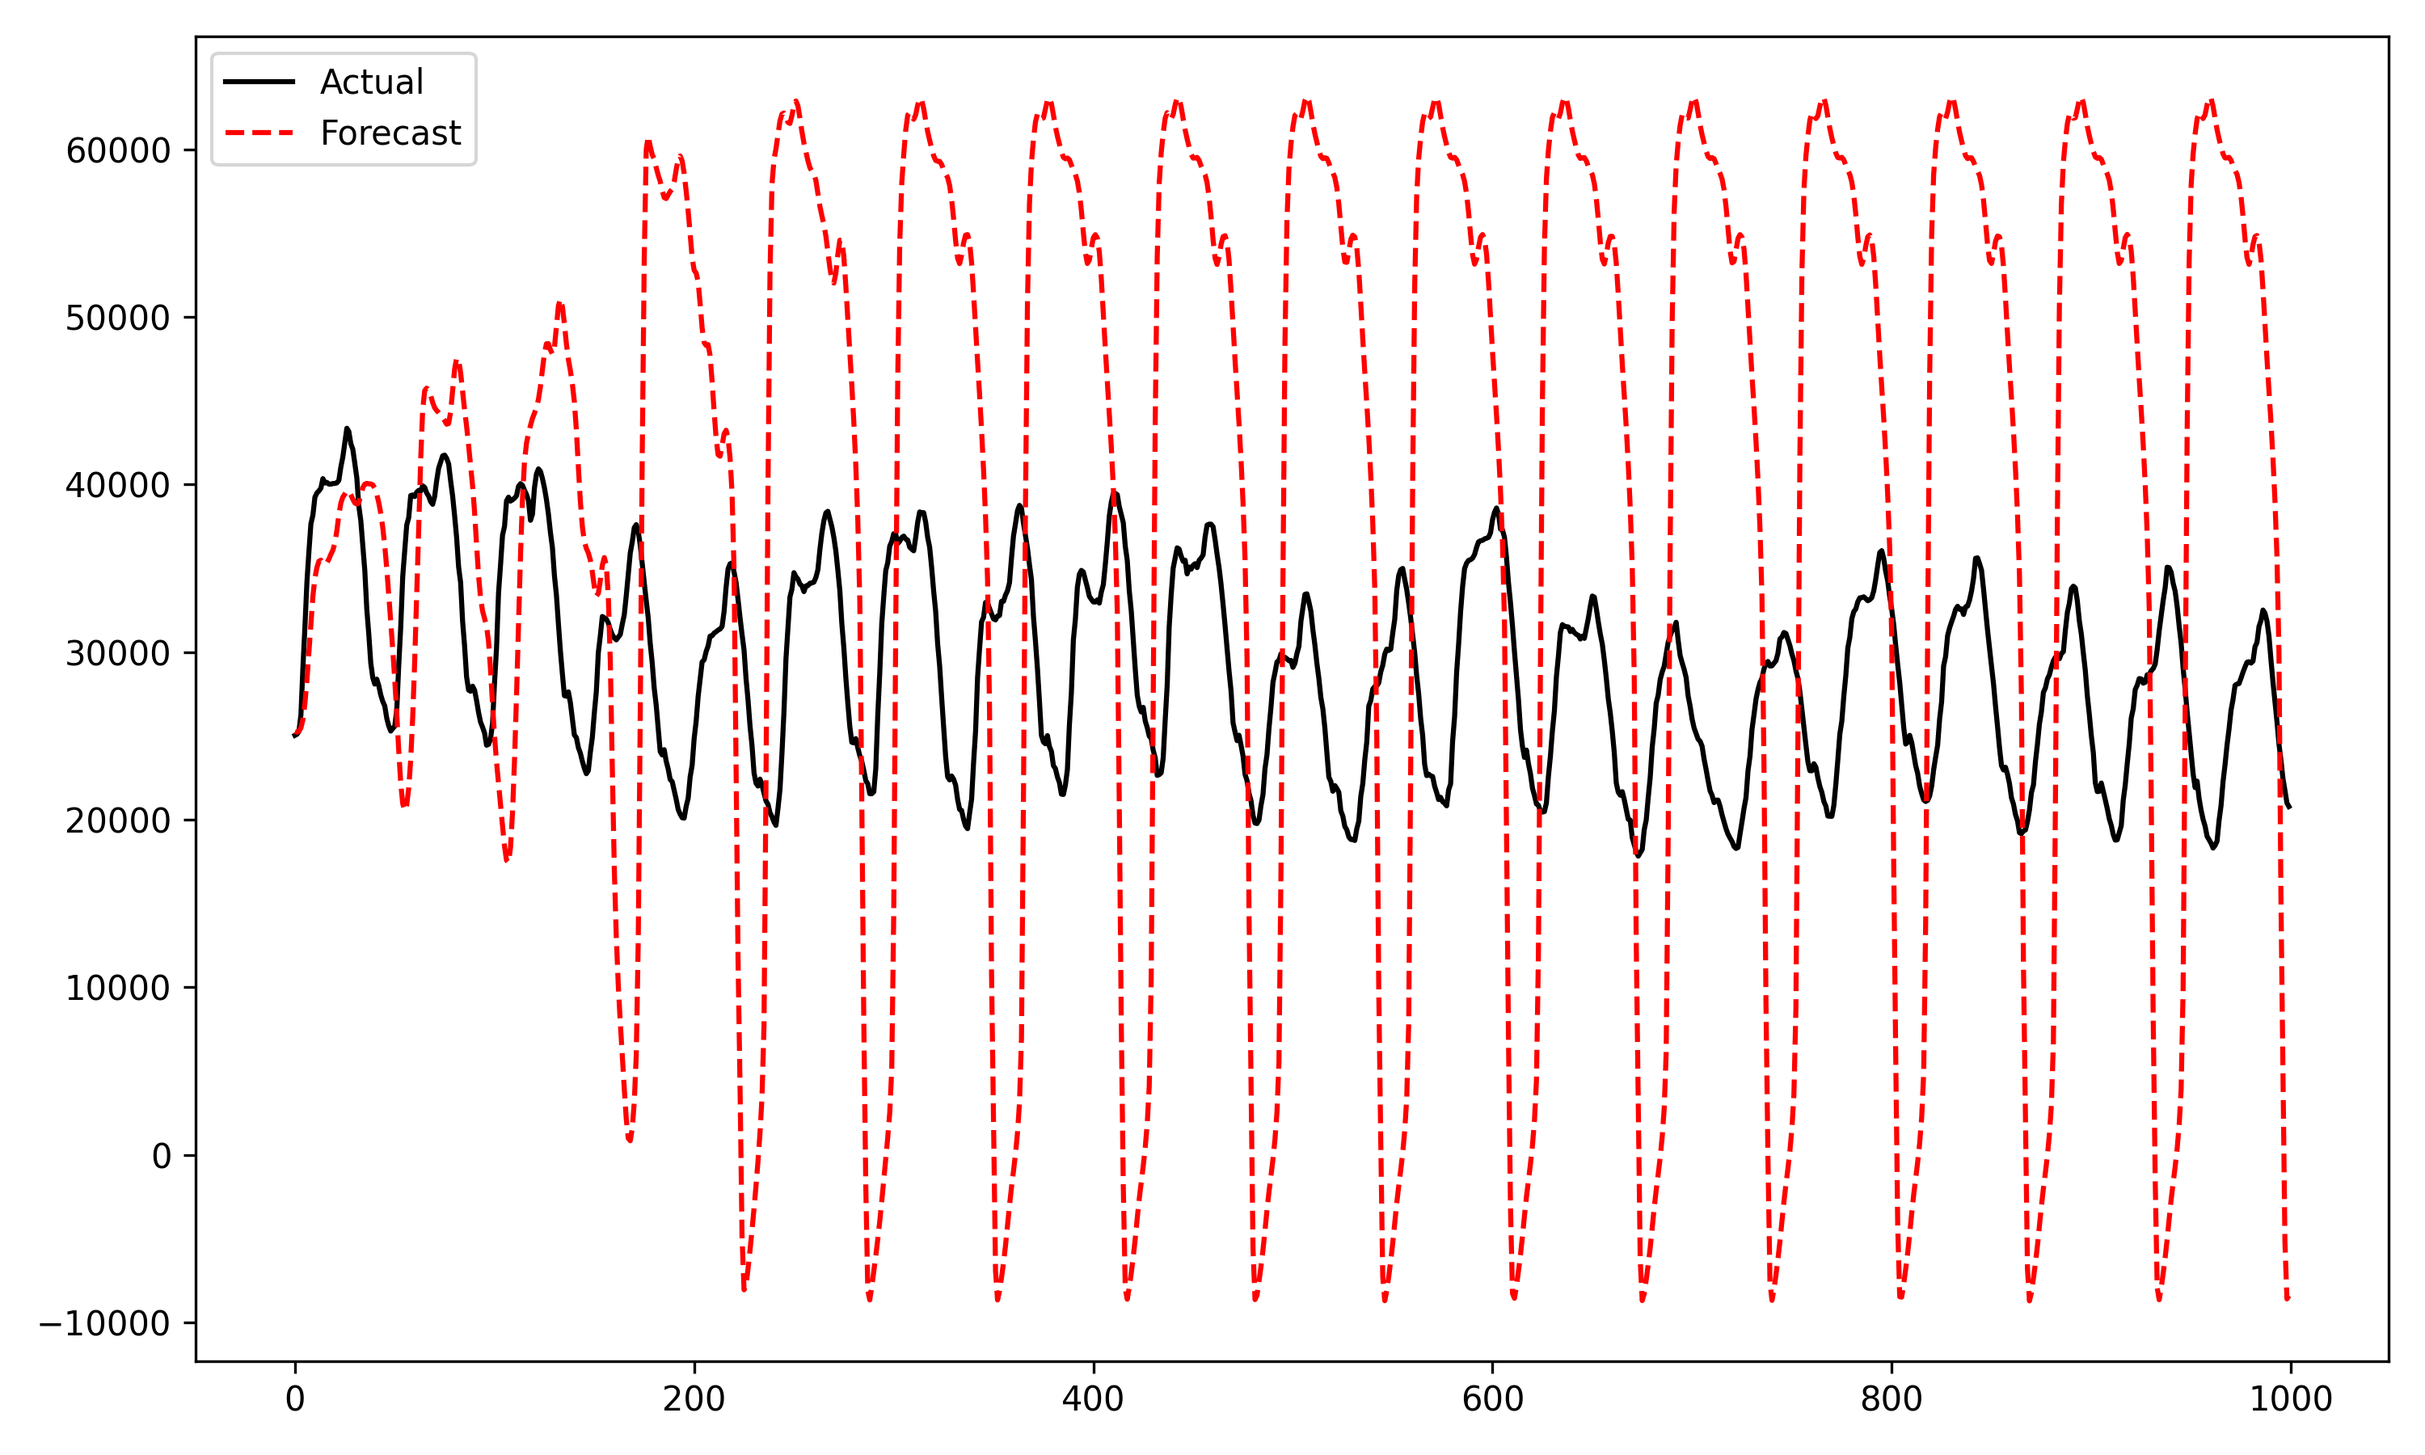
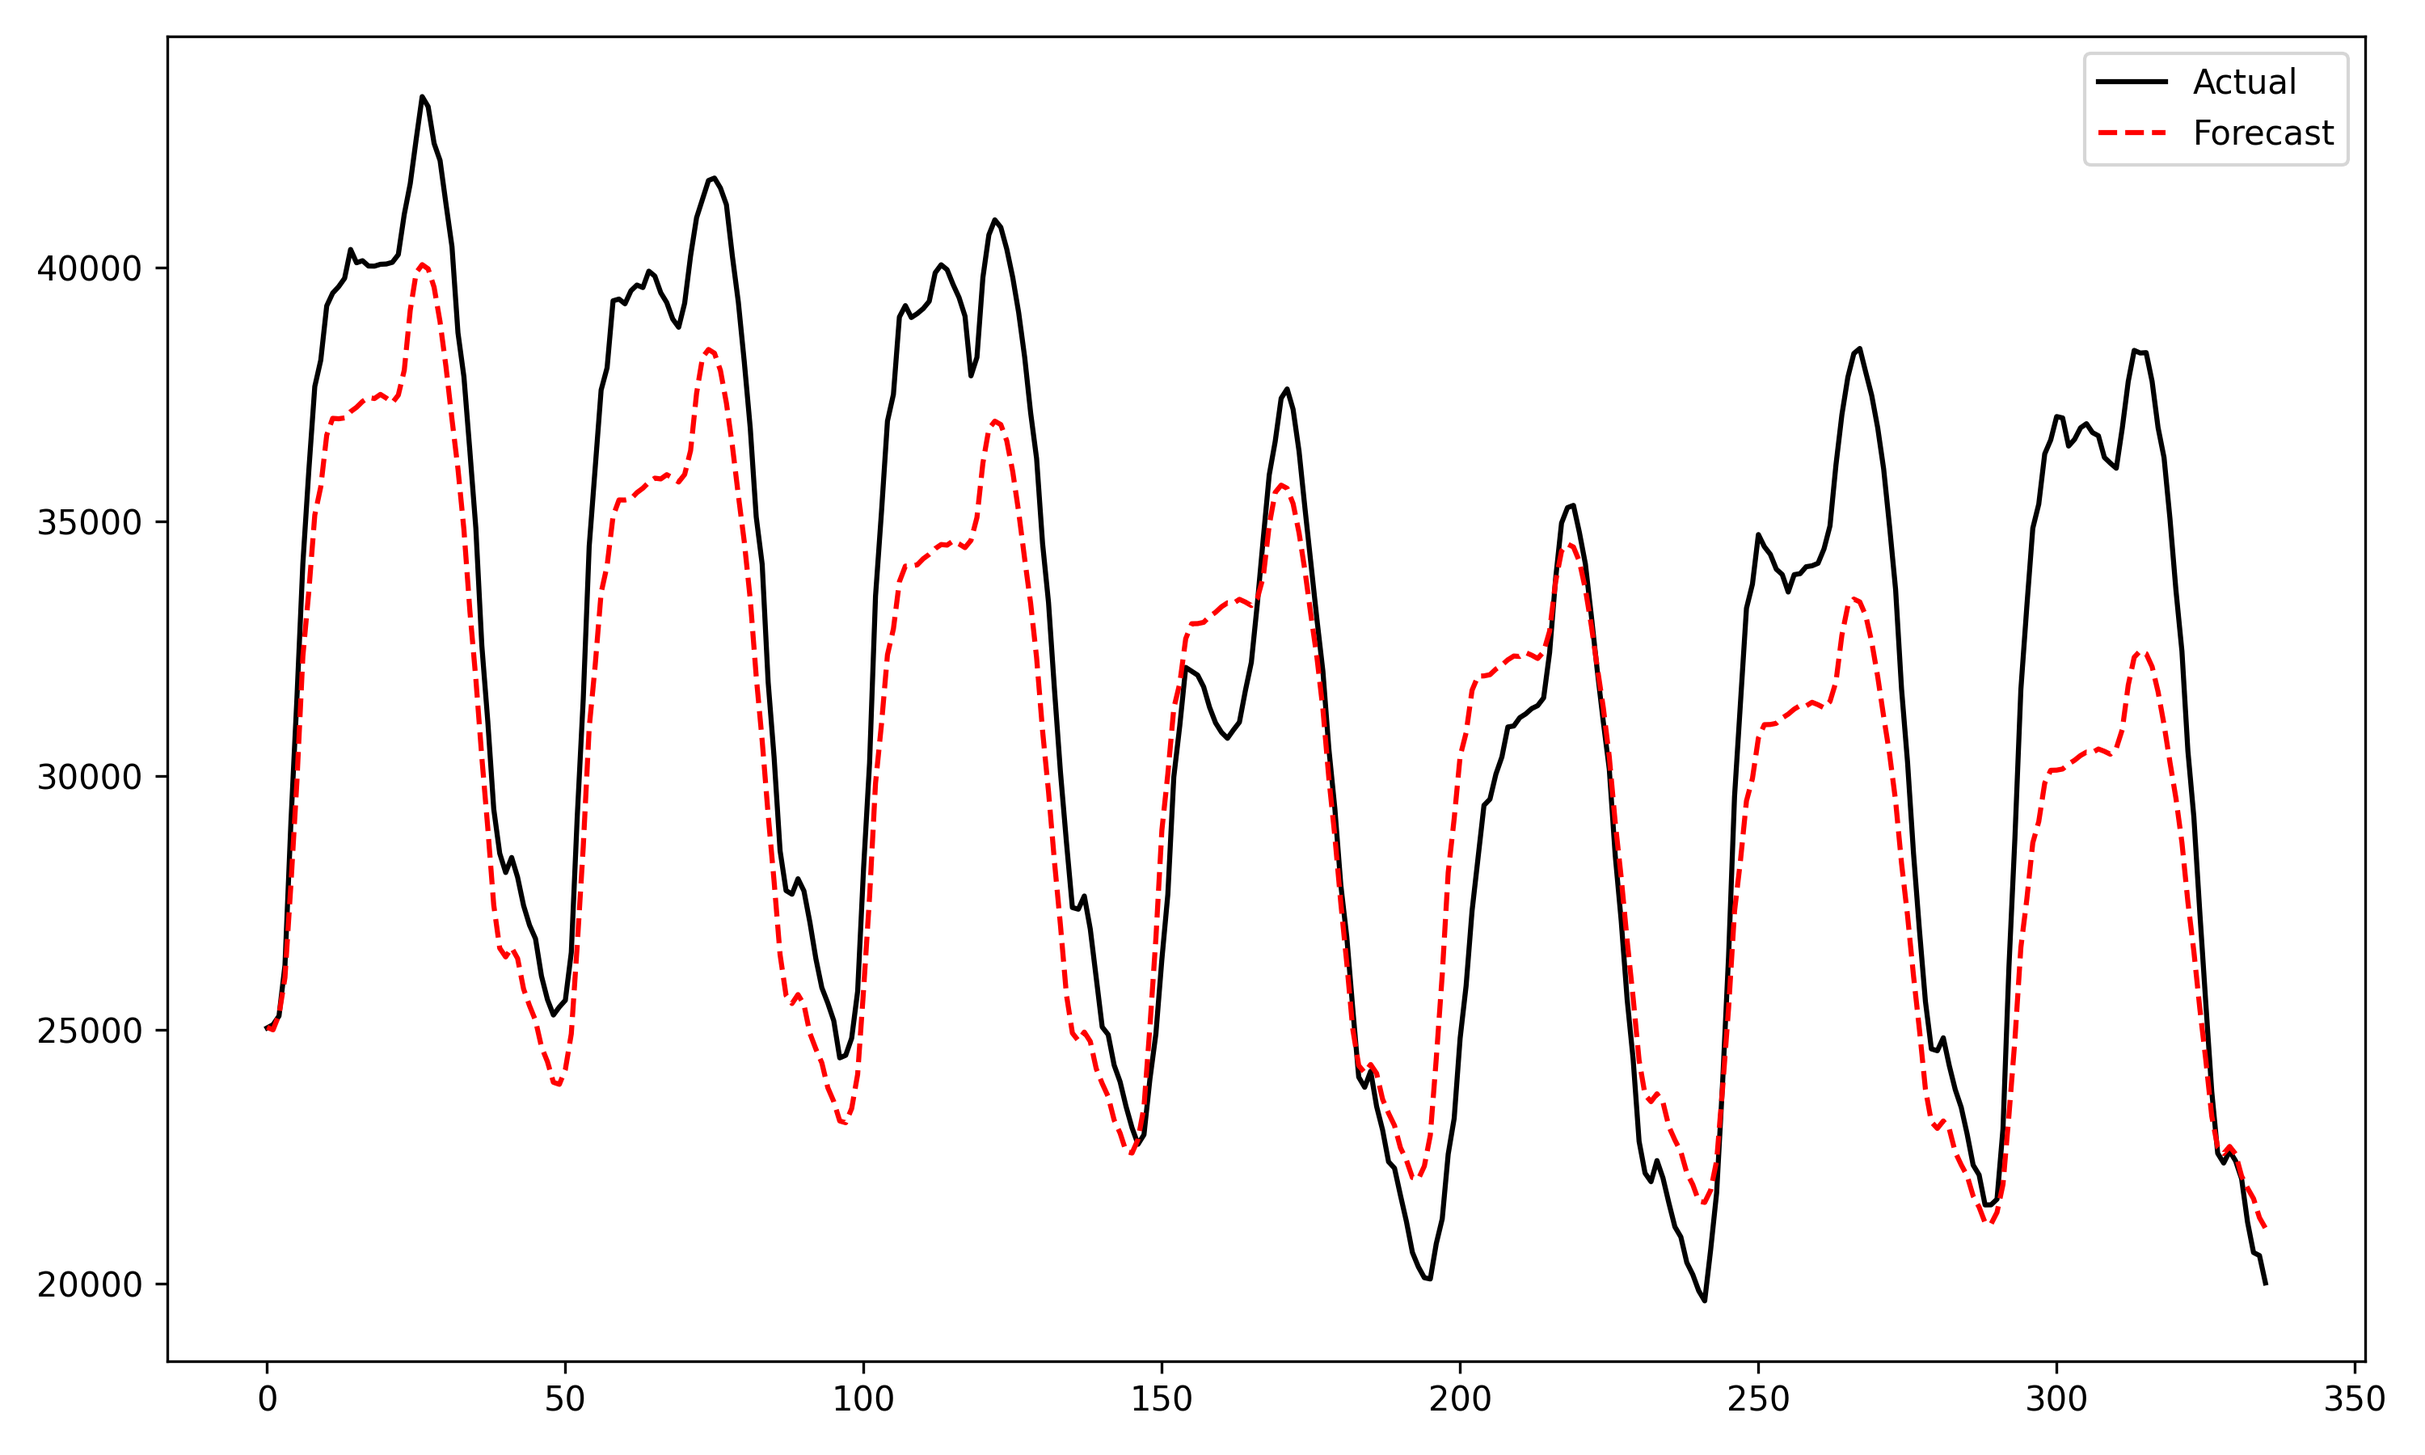
Changes batch first

diff --git a/src/qq_forecasting/transformer/transformer_model.py b/src/qq_forecasting/transformer/transformer_model.py
@@ -13,11 +13,11 @@ class PositionalEncoding(nn.Module):
         div_term = torch.exp(torch.arange(0, d_model, 2).float() * (-math.log(10000.0) / d_model))
         pe[:, 0::2] = torch.sin(position * div_term)
         pe[:, 1::2] = torch.cos(position * div_term)
-        pe = pe.unsqueeze(0).transpose(0, 1)
+        pe = pe.unsqueeze(0)  # (1, max_len, d_model)
         self.register_buffer("pe", pe)
 
     def forward(self, x):
-        return self.pe[:x.size(0), :]
+        return self.pe[:, :x.size(1), :]  # assuming x is (batch, seq_len, d_model)
 
 
 class TransformerEncoder(nn.Module):
@@ -26,7 +26,9 @@ class TransformerEncoder(nn.Module):
         self.embedding_layer = nn.Linear(input_dim, feature_size)
         self.src_mask = None
         self.pos_encoder = PositionalEncoding(feature_size)
-        self.encoder_layer = nn.TransformerEncoderLayer(d_model=feature_size, nhead=10, dropout=dropout)
+        self.encoder_layer = nn.TransformerEncoderLayer(
+            d_model=feature_size, nhead=10, dropout=dropout, batch_first=True
+        )
         self.transformer_encoder = nn.TransformerEncoder(self.encoder_layer, num_layers=num_layers)
         self.decoder = nn.Linear(feature_size, 1)
         self._init_weights()
@@ -37,13 +39,10 @@ class TransformerEncoder(nn.Module):
         self.decoder.weight.data.uniform_(-initrange, initrange)
 
     def forward(self, x):
-        # x: (seq_len, batch_size, input_dim)
-        x = self.embedding_layer(x)
-        if self.src_mask is None or self.src_mask.size(0) != len(x):
-            self.src_mask = self._generate_square_subsequent_mask(len(x)).to(x.device)
+        x = self.embedding_layer(x)  # (batch, seq_len, feature_size)
         x = x + self.pos_encoder(x)
-        output = self.transformer_encoder(x, self.src_mask)
-        return self.decoder(output[-1, :, :])  # only take last time step
+        output = self.transformer_encoder(x, self.src_mask)  # (batch, seq_len, d_model)
+        return self.decoder(output[:, -1, :])  # last time step per batch
 
     def _generate_square_subsequent_mask(self, sz):
         mask = (torch.triu(torch.ones(sz, sz)) == 1).transpose(0, 1)
@@ -58,7 +57,7 @@ def train_transformer(model, dataloader, num_epochs=10, lr=0.001, scheduler=None
     for epoch in range(num_epochs):
         epoch_loss = 0.0
         for X_batch, y_batch in dataloader:
-            X_batch = X_batch.transpose(0, 1)  # (seq_len, batch_size, 1)
+            # X_batch = X_batch.transpose(0, 1)  # (seq_len, batch_size, 1)
             optimizer.zero_grad()
             output = model(X_batch)
             loss = criterion(output, y_batch)
@@ -95,152 +94,14 @@ def forecast_transformer(
     predictions = []
 
     for _ in range(steps_ahead):
-        x = torch.tensor(window[-len(recent_window):], dtype=torch.float32).unsqueeze(-1).unsqueeze(1).to(device)
+        x = torch.tensor(window[-len(recent_window):], dtype=torch.float32).unsqueeze(0).unsqueeze(-1)
+        # shape = (1, seq_len, 1)
         with torch.no_grad():
             pred = model(x).item()  # scalar output
         predictions.append(pred)
         window.append(pred)
 
     return np.array(predictions).flatten()
-
-
-def forecast_transformer_with_truth(
-    model: torch.nn.Module,
-    context_window: Union[np.ndarray, List[float]],
-    future_values: Union[np.ndarray, List[float]],
-    device: str = "cpu"
-) -> np.ndarray:
-    """
-    Forecast using true future values for evaluation (not autoregressive).
-
-    Args:
-        model (torch.nn.Module): Trained model.
-        context_window (array-like): Initial input window (already scaled).
-        future_values (array-like): True future values to feed for prediction (already scaled).
-        device (str): 'cpu' or 'cuda'.
-
-    Returns:
-        np.ndarray: Model predictions using the true inputs at each step (still scaled).
-    """
-    model.eval()
-    window = list(context_window)
-    predictions = []
-
-    for t in range(len(future_values)):
-        x = torch.tensor(window[-len(context_window):], dtype=torch.float32).unsqueeze(-1).unsqueeze(1).to(device)
-
-        with torch.no_grad():
-            pred = model(x).item()
-
-        predictions.append(pred)
-        # Append the *true* next value, not the predicted one
-        window.append(future_values[t])
-
-    return np.array(predictions)
-
-
-def forecast_multiple_days_autoreg(
-    model: torch.nn.Module,
-    full_series: np.ndarray,
-    window_size: int = 48,
-    horizon: int = 48,
-    num_days: int = 7,
-    device: str = "cpu"
-) -> List[np.ndarray]:
-    """
-    Perform rolling day-ahead forecasts for multiple days,
-    resetting the input context each day to use observed truth.
-
-    Args:
-        model (nn.Module): Trained transformer model.
-        full_series (np.ndarray): Full **unscaled** series (e.g., val + test).
-        scaler (sklearn Scaler): Fitted scaler.
-        window_size (int): Context window length (e.g., 48).
-        horizon (int): Steps to forecast each day (e.g., 48).
-        num_days (int): Number of daily forecasts to make.
-        device (str): 'cpu' or 'cuda'.
-
-    Returns:
-        List[np.ndarray]: Each element is a day-ahead forecast of length `horizon` (unscaled).
-    """
-    model.eval()
-    forecasts = []
-
-    for day in range(num_days):
-        # Get real context window
-        start_idx = day * horizon
-        context = full_series[start_idx : start_idx + window_size]
-
-        preds = []
-        window = list(context)
-
-        for _ in range(horizon):
-            x = torch.tensor(window[-window_size:], dtype=torch.float32).unsqueeze(-1).unsqueeze(1).to(device)
-            with torch.no_grad():
-                pred = model(x).item()
-            preds.append(pred)
-            window.append(pred)  # autoregressive
-
-        # Inverse scale this day's forecast
-        forecasts.append(preds)
-
-    return forecasts
-
-
-def forecast_with_daily_resets(
-    model: torch.nn.Module,
-    test_series: Union[np.ndarray, List[float]],
-    context_window: Union[np.ndarray, List[float]],
-    horizon: int = 48,
-    device: str = "cpu"
-) -> np.ndarray:
-    """
-    Forecast full test series in day-ahead blocks:
-    - Each block uses autoregressive prediction for 48 steps.
-    - After each block, reset context window to the true values.
-    - No scaling is applied anywhere.
-
-    Args:
-        model (torch.nn.Module): Trained model (expects raw values).
-        test_series (np.ndarray): True test series (raw).
-        context_window (np.ndarray): Initial input values before test set (raw).
-        horizon (int): Number of steps to predict per day (default: 48).
-        device (str): "cpu" or "cuda".
-
-    Returns:
-        np.ndarray: Full predicted series (same length as test_series).
-    """
-    model.eval()
-    test_series = np.array(test_series)
-    context_window = np.array(context_window)
-    predictions = []
-
-    window_size = len(context_window)
-    num_rounds = int(np.ceil(len(test_series) / horizon))
-
-    for i in range(num_rounds):
-        window = list(context_window.copy())
-        block_preds = []
-
-        for _ in range(horizon):
-            x = torch.tensor(window[-window_size:], dtype=torch.float32).unsqueeze(-1).unsqueeze(1).to(device)
-            with torch.no_grad():
-                pred = model(x).item()
-            block_preds.append(pred)
-            window.append(pred)
-
-        # Clip to remaining test points
-        block_preds = block_preds[:len(test_series) - len(predictions)]
-        predictions.extend(block_preds)
-
-        # Reset context window with true values for next round
-        start = i * horizon
-        end = start + horizon
-        context_window = test_series[start:end]
-        if len(context_window) < window_size:
-            context_window = np.concatenate([test_series[:start], context_window])[-window_size:]
-
-    return np.array(predictions)
 
 
 def forecast_transformer_autoregressive(
@@ -266,7 +127,8 @@ def forecast_transformer_autoregressive(
     predictions = []
 
     for _ in range(steps_ahead):
-        x = torch.tensor(window[-len(recent_window):], dtype=torch.float32).unsqueeze(-1).unsqueeze(1).to(device)
+        x = torch.tensor(window[-len(recent_window):], dtype=torch.float32).unsqueeze(0).unsqueeze(-1)
+        # shape = (1, seq_len, 1)
         with torch.no_grad():
             pred = model(x).item()
         predictions.append(pred)

diff --git a/scripts/predict_transformer.py b/scripts/predict_transformer.py
@@ -6,9 +6,7 @@ import pandas as pd
 
 from qq_forecasting.transformer.transformer_model import (
     TransformerEncoder,
-    forecast_with_daily_resets,
-    forecast_transformer_autoregressive,
-    forecast_transformer_with_truth
+    forecast_transformer_autoregressive
 )
 
 from qq_forecasting.utils import (
@@ -24,20 +22,27 @@ SCALER_PATH = os.path.join(DATA_PATH, "scaler.pkl")
 METRICS_SAVE_PATH = "outputs/results/transformer_metrics.txt"
 PLOT_SAVE_PATH = "outputs/results/transformer_forecast.png"
 WINDOW_SIZE = 48
+NUM_LAYERS = 2
 device = torch.device("cuda" if torch.cuda.is_available() else "cpu")
 
 # ========== LOAD ==========
 train = pd.read_csv(os.path.join(DATA_PATH, "train.csv")).squeeze()
 val = pd.read_csv(os.path.join(DATA_PATH, "val.csv")).squeeze()
-test = pd.read_csv(os.path.join(DATA_PATH, "test.csv")).squeeze()
+test = pd.read_csv(os.path.join(DATA_PATH, "test.csv")).squeeze()[:48*7]
 scaler = joblib.load(SCALER_PATH)
 train_val = pd.concat([train, val], ignore_index=True)
 actual_values = inverse_scale(test.values, scaler)
 
 # ========== LOAD MODEL ==========
-loaded_model = TransformerEncoder().to(device)
+loaded_model = TransformerEncoder(num_layers=NUM_LAYERS).to(device)
 loaded_model.load_state_dict(torch.load(MODEL_SAVE_PATH, map_location=device))
+loaded_model.to(device)
+loaded_model.eval()
 print(f"Loaded model from {MODEL_SAVE_PATH}")
+
+# print("Sanity check: model output on random input")
+# dummy = torch.randn(1, WINDOW_SIZE, 1).to(device)
+# print(loaded_model(dummy).item())  # should return a float
 
 # ========== FORECAST ==========
 context_window = train_val[-WINDOW_SIZE:]
@@ -47,12 +52,12 @@ predictions = forecast_transformer_autoregressive(
     steps_ahead=len(test)
 )
 
-predictions = forecast_with_daily_resets(
-    model=loaded_model,
-    test_series=test.values,
-    context_window=context_window,
-    horizon=48
-)
+# predictions = forecast_with_daily_resets(
+#     model=loaded_model,
+#     test_series=test.values,
+#     context_window=context_window,
+#     horizon=48
+# )
 
 # ========== EVALUATE ==========
 predicted_values = inverse_scale(predictions, scaler)

diff --git a/scripts/predict_lstm.py b/scripts/predict_lstm.py
@@ -18,15 +18,15 @@ SCALER_PATH = os.path.join(DATA_PATH, "scaler.pkl")
 METRICS_SAVE_PATH = "outputs/results/lstm_metrics.txt"
 PLOT_SAVE_PATH = "outputs/results/lstm_forecast.png"
 
-WINDOW_SIZE = 48
-HIDDEN_SIZE = 64
-NUM_LAYERS = 2
-device = torch.device("cuda" if torch.cuda.is_available() else "cpu")
+# WINDOW_SIZE = 48
+# HIDDEN_SIZE = 32
+# NUM_LAYERS = 3
+# device = torch.device("cuda" if torch.cuda.is_available() else "cpu")
 
 # ========== LOAD ==========
 train = pd.read_csv(os.path.join(DATA_PATH, "train.csv")).squeeze()
 val = pd.read_csv(os.path.join(DATA_PATH, "val.csv")).squeeze()
-test = pd.read_csv(os.path.join(DATA_PATH, "test.csv")).squeeze()
+test = pd.read_csv(os.path.join(DATA_PATH, "test.csv")).squeeze()[:48*7]
 scaler = joblib.load(SCALER_PATH)
 
 train_val = pd.concat([train, val], ignore_index=True)

diff --git a/scripts/run_arima.py b/scripts/run_arima.py
@@ -30,9 +30,9 @@ D_values = [0]
 Q_values = [1]
 
 # ===== LOAD DATA =====
-train = pd.read_csv(os.path.join(DATA_PATH, "train.csv")).iloc[:200, :]
-val = pd.read_csv(os.path.join(DATA_PATH, "val.csv"))
-test = pd.read_csv(os.path.join(DATA_PATH, "test.csv"))
+# train = pd.read_csv(os.path.join(DATA_PATH, "train.csv")).iloc[:200, :]
+# val = pd.read_csv(os.path.join(DATA_PATH, "val.csv"))
+test = pd.read_csv(os.path.join(DATA_PATH, "test.csv"))[:48*7]
 scaler = joblib.load(os.path.join(DATA_PATH, "scaler.pkl"))
 
 # ===== TUNE =====

diff --git a/scripts/train_lstm.py b/scripts/train_lstm.py
@@ -13,13 +13,13 @@ DATA_PATH = "data/processed/electricity_demand"
 MODEL_SAVE_PATH = "outputs/models/lstm_model.pt"
 SCALER_PATH = os.path.join(DATA_PATH, "scaler.pkl")
 
-NUM_LAYERS = 2
-HIDDEN_SIZE = 64
+NUM_LAYERS = 3
+HIDDEN_SIZE = 48
 WINDOW_SIZE = 48
-BATCH_SIZE = 16
-NUM_EPOCHS = 10
+BATCH_SIZE = 128
+NUM_EPOCHS = 50
 LEARNING_RATE = 0.001
-MAX_TRAINING_SAMPLES = 10_000  # Optional limit
+MAX_TRAINING_SAMPLES = 1_000  # Optional limit
 
 device = torch.device("cuda" if torch.cuda.is_available() else "cpu")
 

diff --git a/scripts/train_transformer.py b/scripts/train_transformer.py
@@ -21,12 +21,12 @@ SCALER_PATH = os.path.join(DATA_PATH, "scaler.pkl")
 METRICS_SAVE_PATH = "outputs/results/transformer_metrics.txt"
 PLOT_SAVE_PATH = "outputs/results/transformer_forecast.png"
 
-NUM_LAYERS = 1
+NUM_LAYERS = 2
 WINDOW_SIZE = 48
-BATCH_SIZE = 16
+BATCH_SIZE = 32
 NUM_EPOCHS = 10
 LEARNING_RATE = 0.0005
-MAX_TRAINING_SAMPLES = 10_000  # Optional limit
+MAX_TRAINING_SAMPLES = 1_000  # Optional limit
 
 device = torch.device("cuda" if torch.cuda.is_available() else "cpu")
 
